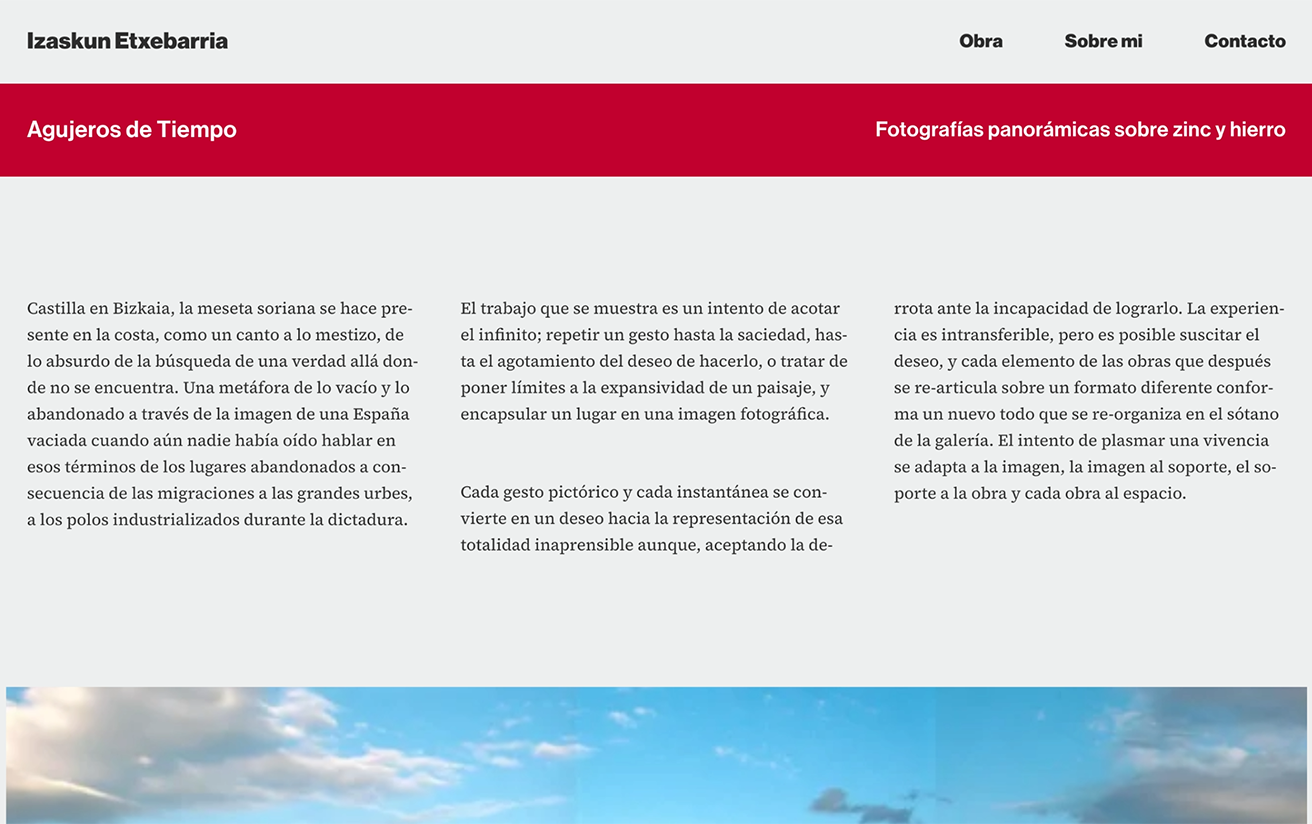
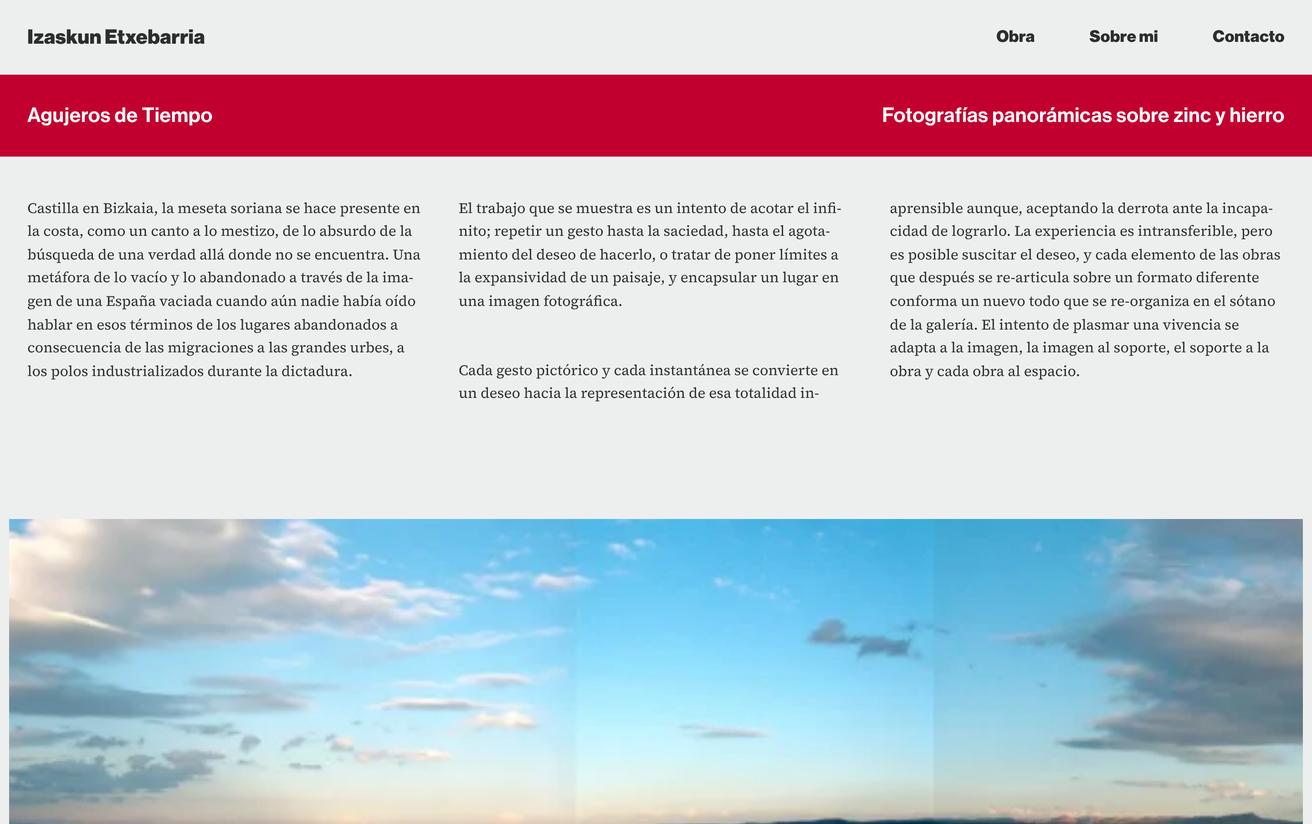
ECI y Home: testimonio nuevo, esquema en tres columnas con pausa, capturas nuevas
- Testimonio.astro: banda en el color del proyecto, comillas de dibujo y
  la cita en display. Lo usan Foc i Cor y ECI. En ECI va un borrador que
  solo se ve en npm run dev.
- ECI: el sistema modular en tres columnas (etiqueta, esquema, texto); el
  esquema va en bucle con botón de pausa. Sombra leve en los vídeos que van
  sobre blanco.
- Home: capturas nuevas de ECI (portada, Speakers, Welcome to Madrid) e
  Izaskun (portada, Agujeros de Tiempo, Comisariado), con versión vertical
  para móvil en los dos.

Claude-Session: https://claude.ai/code/session_01QtCBXu7Ssn2nKTKmfkUqAo

diff --git a/src/content/proyectos/eci-conference.md b/src/content/proyectos/eci-conference.md
@@ -29,19 +29,20 @@ maquetaPropia: true
 imagenes:
   - archivo: eci-1
     alt: >-
-      Portada del congreso sobre una fotografía nocturna de la Gran Vía de
-      Madrid, con el titular “Growing together: innovation, equity and
-      community”, los botones de inscripción anticipada y de envío de
-      abstracts, y la fecha y la sede.
+      La portada de eciconference2027.com: una foto nocturna de la Gran Vía de
+      Madrid con el titular “Growing together: innovation, equity and
+      community” en amarillo y blanco, la fecha y la sede del congreso y los
+      botones de inscripción y de envío de abstracts.
   - archivo: eci-2
     alt: >-
-      Ventana de inscripción con las tres tarifas (anticipada 380 €, general
-      440 € y talleres previos 65 €), dos avisos que explican qué incluye cada
-      una y el botón para continuar.
+      La página de ponentes: el título “Speakers” en amarillo sobre la foto de
+      unas personas conversando en un congreso, con la frase que presenta las
+      ponencias principales y los talleres.
   - archivo: eci-3
     alt: >-
-      Página “Why attend” a toda pantalla en naranja, con el ítem del menú
-      marcado y dos columnas que explican qué supone asistir al congreso.
+      La página “Welcome to Madrid”: una plaza de Madrid con gente paseando
+      bajo un árbol de otoño, el titular en amarillo, un texto de bienvenida a
+      la ciudad y el botón “Discover Madrid”.
 ---
 
 Un congreso sobre inclusión necesita una web inclusiva.

diff --git a/src/content/proyectos/izaskun-etxebarria.md b/src/content/proyectos/izaskun-etxebarria.md
@@ -24,18 +24,18 @@ casoPublicado: false
 imagenes:
   - archivo: izaskun-1
     alt: >-
-      Sala de exposición con una pieza de líneas amarillas dibujada sobre la
-      pared, una retícula de obra pequeña enmarcada y cuatro cuadros grandes
-      de paisajes construidos.
+      La portada de izaskunetxebarria.com: una pieza circular de metal sobre
+      la hierba de un acantilado junto al mar, con el nombre de la artista y
+      el menú en una barra clara arriba.
   - archivo: izaskun-2
     alt: >-
-      Página de la serie “Agujeros de Tiempo”, con una banda roja de título,
-      el texto de la artista a tres columnas y una fotografía de cielo
-      asomando debajo.
+      La página de la serie “Agujeros de Tiempo”, con una banda roja de
+      título, el texto de la artista a tres columnas y una fotografía
+      panorámica de cielo debajo.
   - archivo: izaskun-3
     alt: >-
-      Una pieza circular de metal apoyada en un prado junto al mar, con tres
-      fotografías más de la misma pieza en otros encuadres debajo.
+      La página de comisariado: dos hombres miran de cerca unos libros
+      antiguos expuestos en una vitrina iluminada.
 ---
 
 Diseñamos su web con el mismo propósito: dejar espacio a la obra.

diff --git a/AGENTS.md b/AGENTS.md
@@ -396,6 +396,16 @@ Declaración de accesibilidad lo nombra como incumplimiento conocido, y con
 «reducir movimiento» se para. Quitar el bucle obliga a quitarlo de la
 Declaración, y al revés; `npm run movimiento` vigila las dos cosas.
 
+**Casos: testimonio y esquema (30/10/2026).** El testimonio va en
+`Testimonio.astro`: banda en el color del proyecto y la cita en display, la
+única excepción a «un solo texto grande». Un testimonio que no ha llegado se
+marca `borrador` y solo se ve en `npm run dev`: un testimonio inventado no se
+publica. El esquema del sistema modular de ECI va en bucle con su botón de
+pausa (2.2.2) y en escritorio ocupa la columna central de tres;
+`npm run movimiento` lo comprueba. Los vídeos sobre blanco llevan una sombra
+leve. Las capturas de la Home tienen versión de móvil (`<archivo>-movil`,
+588 × 1280) en ECI e Izaskun.
+
 **Páginas legales (11/10/2026).** Privacidad, Cookies y Declaración de
 accesibilidad salen de `src/data/legal.ts` con la plantilla
 `PaginaLegal.astro`. Ese archivo es también la fuente del texto del Figma:
